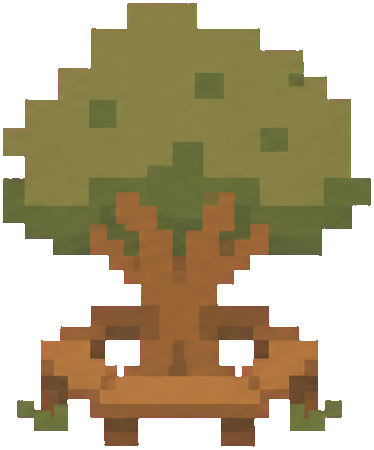
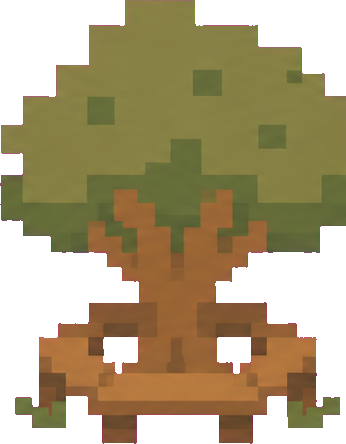
Village: restore personal-dashboard time chip; drop Money district; real art for Calendar/Kitchen; People becomes House info
- AmbientInfo renders on the personal dashboard again (time-only chip)
- Remove the Money district and Somi's cottage prop
- Calendar district uses notice-board.png (cropped from civic-landmarks)
- References district becomes Kitchen, uses kitchen.png (pantry stall)
- People district (the tree) becomes House info: wifi, house notes, and
  the kitchen/home cheat sheets; unlocked in shared mode for guests

diff --git a/components/village/scene/VillageScene.tsx b/components/village/scene/VillageScene.tsx
@@ -196,9 +196,8 @@ export default function VillageScene({
    *  `who` is 'sylvia' | 'harry'. Wired in Village.tsx to the ping route. */
   hostPing?: { onPing: (who: 'sylvia' | 'harry', reason: string) => void } | null
   /** Live lines for the data-domain structures' glance-cards (2026-09-06)
-   *  — money / notes / calendar. Sourced in Village.tsx (hookless scene). */
+   *  — notes / calendar. Sourced in Village.tsx (hookless scene). */
   structures?: {
-    money: string[]
     notes: string[]
     calendar: string[]
   } | null
@@ -247,9 +246,10 @@ export default function VillageScene({
   // reflection archive, and contacts are all personal). Non-landmark navs
   // (Mailbox, the Trips signpost, the date-idea memory markers) pass their
   // own lock intent explicitly.
-  // money + notes are personal → stay locked in shared mode; calendar is
-  // household → open like Places/Home/References.
-  const districtLocked = (id: LandmarkId) => locked && id !== 'places' && id !== 'home' && id !== 'references' && id !== 'calendar'
+  // notes is personal → stays locked in shared mode; calendar is household
+  // and People is now the guest-facing house-info card → open like
+  // Places/Home/References.
+  const districtLocked = (id: LandmarkId) => locked && id !== 'places' && id !== 'home' && id !== 'references' && id !== 'calendar' && id !== 'people'
 
   // One wrapper so every district gets the same treatment — a locked click
   // never silently no-ops, it always explains itself via the unlock prompt.
@@ -638,13 +638,22 @@ export default function VillageScene({
       ],
       actionLabel: 'Open Places', go: () => goToSection('places'),
     },
+    // People district → house info for guests + quick access (2026-09-06).
+    // The big community tree is now the "everything a guest needs" hub:
+    // wifi, house notes, and a jump to the kitchen and home cheat sheets.
+    // Not personal data any more, so it's unlocked in shared mode.
     people: {
-      title: 'People',
-      lines: [
-        `${peopleCount} close`,
-        ...(soonestBirthdayDays != null ? [soonestBirthdayDays === 0 ? 'Birthday today' : `Birthday in ${soonestBirthdayDays}d`] : []),
-      ],
-      actionLabel: 'Open People', go: () => goToPersonal('people'),
+      title: 'House info',
+      lines: (() => {
+        const l = [
+          guestInfo.wifiName ? `Wifi · ${guestInfo.wifiName}` : null,
+          guestInfo.wifiPassword ? `Password · ${guestInfo.wifiPassword}` : null,
+          guestInfo.notes?.trim() || null,
+        ].filter(Boolean).slice(0, 3) as string[]
+        return l.length ? l : ['Wifi and house notes']
+      })(),
+      actionLabel: 'Open Kitchen', go: () => onOpenKitchen?.(),
+      secondary: { label: 'Home Cheat Sheet', go: () => window.open(HOME_URL, '_blank', 'noopener') },
     },
     archive: {
       title: 'Archive',
@@ -661,19 +670,14 @@ export default function VillageScene({
     // same as the well/postcard cards' secondary actions, rather than
     // reworking this card renderer for one district.
     references: {
-      title: 'References',
-      lines: ['Kitchen & home know-how'],
+      title: 'Kitchen',
+      lines: ['Recipes, timings, and home know-how'],
       actionLabel: 'Open Kitchen', go: () => onOpenKitchen?.(),
       secondary: { label: 'Home Cheat Sheet', go: () => window.open(HOME_URL, '_blank', 'noopener') },
     },
-    // Data-domain structures (2026-09-06) — money / notes / calendar.
-    // Lines come from `structures` (Village.tsx); fall back to a plain
-    // label while it's still loading or empty.
-    money: {
-      title: 'Money',
-      lines: structures?.money.length ? structures.money : ['Spending and renewals'],
-      actionLabel: 'Open Money', go: () => goToPersonal('money'),
-    },
+    // Data-domain structures (2026-09-06) — notes / calendar. Lines come
+    // from `structures` (Village.tsx); fall back to a plain label while
+    // it's still loading or empty.
     notes: {
       title: 'Notes',
       lines: structures?.notes.length ? structures.notes : ['Everything you jotted down'],
@@ -2288,10 +2292,8 @@ export default function VillageScene({
       <DistrictLabel quiet={hosting} {...pos('archive')} icon="book" label="Archive" onClick={openOrToggle('archive', 'Archive')} {...hoverPreview('archive')} dark={dark} scale={1.12}
         count={v.treeRings > 0 ? `${spellCount(v.treeRings)} year${v.treeRings === 1 ? '' : 's'} kept` : 'its first year'}
         draggable={arranging} dragging={draggingId === 'archive'} onPointerDown={startDrag('archive')} selected={openPanel === 'archive'} />
-      <DistrictLabel quiet={hosting} {...pos('references')} icon="shelf" label="References" onClick={openOrToggle('references', 'References')} {...hoverPreview('references')} dark={dark} scale={1.12}
+      <DistrictLabel quiet={hosting} {...pos('references')} icon="shelf" label="Kitchen" onClick={openOrToggle('references', 'Kitchen')} {...hoverPreview('references')} dark={dark} scale={1.12}
         draggable={arranging} dragging={draggingId === 'references'} onPointerDown={startDrag('references')} selected={openPanel === 'references'} />
-      <DistrictLabel quiet={hosting} {...pos('money')} icon="coin" label="Money" onClick={openOrToggle('money', 'Money')} {...hoverPreview('money')} dark={dark} scale={1.08}
-        draggable={arranging} dragging={draggingId === 'money'} onPointerDown={startDrag('money')} selected={openPanel === 'money'} />
       <DistrictLabel quiet={hosting} {...pos('notes')} icon="desk" label="Notes" onClick={openOrToggle('notes', 'Notes')} {...hoverPreview('notes')} dark={dark} scale={1.08}
         draggable={arranging} dragging={draggingId === 'notes'} onPointerDown={startDrag('notes')} selected={openPanel === 'notes'} />
       <DistrictLabel quiet={hosting} {...pos('calendar')} icon="board" label="Calendar" onClick={openOrToggle('calendar', 'Calendar')} {...hoverPreview('calendar')} dark={dark} scale={1.08}
@@ -2304,8 +2306,11 @@ export default function VillageScene({
       <DistrictLabel quiet={hosting} {...pos('places')} icon="places" label="Places" onClick={openOrToggle('places', 'Places')} {...hoverPreview('places')} dark={dark} scale={1.12}
         count={placesCount === 0 ? 'no pins yet' : 'the map is growing'}
         draggable={arranging} dragging={draggingId === 'places'} onPointerDown={startDrag('places')} selected={openPanel === 'places'} />
-      <DistrictLabel quiet={hosting} {...pos('people')} icon="people" label="People" onClick={openOrToggle('people', 'People')} {...hoverPreview('people')} dark={dark} scale={1.12}
-        count={soonestBirthdayDays != null ? (soonestBirthdayDays === 0 ? 'birthday today' : `birthday in ${spellCount(soonestBirthdayDays)} day${soonestBirthdayDays === 1 ? '' : 's'}`) : peopleCount === 0 ? 'no one yet' : 'your people'}
+      {/* People district → house info for guests (2026-09-06). The tree
+          stays; the card behind it is wifi + house notes + the cheat
+          sheets now, not contacts. */}
+      <DistrictLabel {...pos('people')} icon="people" label="House info" onClick={openOrToggle('people', 'House info')} {...hoverPreview('people')} dark={dark} scale={1.12}
+        count={peopleCount >= 0 ? 'wifi and house notes' : ''}
         draggable={arranging} dragging={draggingId === 'people'} onPointerDown={startDrag('people')} selected={openPanel === 'people'} />
       {/* Birthday bunting (2026-08-24) — only on the actual day, over the
           People district's current position. */}
@@ -2647,23 +2652,6 @@ export default function VillageScene({
           combined (~33 with a small margin). y dropped to GROUND_Y+20, well
           below PROPS.fences' first run (x 336-364, y GROUND_Y+1..+6) at the
           same x — Somi reads as standing in front of it, not through it. */}
-      {/* Somi's cottage (2026-09-06) — a little cat house; tap it for the
-          same card as tapping Somi herself, for guests who can't catch
-          the moving cat. Minimal marker art until a real sprite exists. */}
-      {(() => { const p = decorPos('somiCottage'); return (
-        <Draggable x={p.x} y={p.y} id="somiCottage" arranging={arranging} draggingId={draggingId} onPointerDown={startDrag('somiCottage')} r={11}>
-          <g onClick={() => { if (!arranging) setOpenSomiCard(true) }}
-            className={!arranging ? 'village-entity' : undefined}
-            style={{ cursor: !arranging ? 'pointer' : undefined }}>
-            <title>Somi&rsquo;s cottage</title>
-            <ellipse cx={0} cy={2} rx={9} ry={2} fill="var(--text)" opacity={0.15} />
-            <rect x={-7} y={-8} width={14} height={10} rx={1.4} fill="#b98a5e" stroke="#7a5230" strokeWidth={0.8} />
-            <path d="M -8 -8 L 0 -15 L 8 -8 Z" fill="#7a5230" />
-            <circle cx={0} cy={-3} r={3} fill="#3a2f26" />
-          </g>
-        </Draggable>
-      ) })()}
-
       {(() => {
         const p = decorPos('somi')
         // We're out — Somi stays behind, sitting by the front door.

diff --git a/components/village/scene/shapes.tsx b/components/village/scene/shapes.tsx
@@ -1099,7 +1099,7 @@ export function EntityCallout({ x, y, title, subtitle }: { x: number; y: number;
   )
 }
 
-export type DistrictIconKind = 'leaf' | 'home' | 'building' | 'book' | 'places' | 'people' | 'shelf' | 'coin' | 'desk' | 'board'
+export type DistrictIconKind = 'leaf' | 'home' | 'building' | 'book' | 'places' | 'people' | 'shelf' | 'desk' | 'board'
 
 // Small illustrated objects, not figures (2026-08-24, replaces the
 // illustrated-figure pass from earlier the same day) — the same "real prop,
@@ -1240,10 +1240,9 @@ const DISTRICT_ART_BOX: Record<DistrictIconKind, { w: number; h: number }> = {
   book: { w: 46, h: 41 },   // greenhouse.png
   places: { w: 32, h: 24 }, // car.png
   people: { w: 44, h: 53 }, // people-tree.png
-  shelf: { w: 24, h: 22 },  // hand-drawn recipe-box + book, no source art
-  coin: { w: 20, h: 20 },   // minimal marker — money structure, real art tbd
+  shelf: { w: 40, h: 32 },  // kitchen.png — the market/pantry stall
   desk: { w: 24, h: 18 },   // minimal marker — notes structure, real art tbd
-  board: { w: 22, h: 24 },  // minimal marker — calendar structure, real art tbd
+  board: { w: 30, h: 27 },  // notice-board.png
 }
 
 function DistrictArt({ kind, dark }: { kind: DistrictIconKind; dark: boolean }) {
@@ -1356,18 +1355,6 @@ function DistrictArt({ kind, dark }: { kind: DistrictIconKind; dark: boolean }) 
             style={{ imageRendering: 'pixelated' }} />
         </g>
       )
-    case 'coin': // Money — a small counting house / coin. Minimal marker
-      // (2026-09-06) until a real building sprite exists.
-      return (
-        <g>
-          <ellipse cx={0} cy={2} rx={10} ry={2} fill="var(--text)" opacity={0.16} />
-          <rect x={-9} y={-12} width={18} height={14} rx={1.6} fill="#c9b273" stroke="#8a7433" strokeWidth={0.9} />
-          <path d="M -9 -12 L 0 -19 L 9 -12 Z" fill="#8a7433" />
-          <circle cy={-4} r={3.6} fill="#f2e0a0" stroke="#8a7433" strokeWidth={0.7} />
-          <text x={0} y={-2.6} textAnchor="middle" fontSize={4.5} fill="#8a7433" fontFamily="var(--font-body)">$</text>
-          {dark && <circle cy={-6} r={9} fill="var(--amber)" opacity={0.24} filter="url(#vglow)" />}
-        </g>
-      )
     case 'desk': // Notes — a writing desk. Minimal marker (2026-09-06).
       return (
         <g>
@@ -1380,29 +1367,25 @@ function DistrictArt({ kind, dark }: { kind: DistrictIconKind; dark: boolean }) 
           {dark && <circle cy={-6} r={9} fill="var(--amber)" opacity={0.24} filter="url(#vglow)" />}
         </g>
       )
-    case 'board': // Calendar — a village noticeboard. Minimal marker (2026-09-06).
+    case 'board': // Calendar — the village notice board (2026-09-06), notice-board.png
+      // cropped from village-civic-landmarks-alpha.png. Replaced the hand-drawn marker.
       return (
         <g>
-          <ellipse cx={0} cy={2} rx={9} ry={2} fill="var(--text)" opacity={0.16} />
-          <rect x={-1.6} y={-6} width={3.2} height={8} rx={1} fill="#7a5230" />
-          <rect x={-11} y={-22} width={22} height={17} rx={2} fill="#8a6f52" stroke="#5c4a34" strokeWidth={1} />
-          <rect x={-9} y={-20} width={18} height={13} rx={1} fill="#f3ead5" />
-          {[-6, 0, 6].map((cx, i) => (
-            <rect key={i} x={cx - 2} y={-17 + (i % 2) * 4} width={4} height={3} rx={0.4} fill="#c9803f" opacity={0.7} />
-          ))}
-          {dark && <circle cy={-13} r={10} fill="var(--amber)" opacity={0.22} filter="url(#vglow)" />}
+          <ellipse cx={0} cy={2} rx={13} ry={2.4} fill="var(--text)" opacity={0.17} />
+          <image href="/village-assets/notice-board.png" x={-15} y={-27} width={30} height={27}
+            style={{ imageRendering: 'pixelated' }} />
+          {dark && <circle cy={-15} r={10} fill="var(--amber)" opacity={0.22} filter="url(#vglow)" />}
         </g>
       )
-    case 'shelf': // References (round 80, 2026-09-04) — a small recipe box + book,
-      // hand-drawn like the nook prop it replaces rather than a cropped asset (no
-      // dedicated "reference library" building exists in the master folder yet).
+    case 'shelf': // References → Kitchen (2026-09-06) — kitchen.png, the pantry/market
+      // stall cropped from village-community-pantry-kitchen-garden-alpha.png. Replaced
+      // the hand-drawn recipe-box marker; the card still opens the Kitchen overlay.
       return (
         <g>
-          <ellipse cx={0} cy={2} rx={11} ry={2.2} fill="var(--text)" opacity={0.16} />
-          <rect x={-9} y={-11} width={18} height={13.5} rx={2} fill="#c9803f" stroke="#8a5a2c" strokeWidth={0.9} />
-          <rect x={-9} y={-11} width={18} height={3.6} fill="#e0a066" />
-          <rect x={-5.5} y={-20} width={11} height={10} rx={0.9} fill="#7a8f6e" stroke="#5c6e52" strokeWidth={0.7} />
-          {dark && <circle cy={-8} r={9} fill="var(--amber)" opacity={0.24} filter="url(#vglow)" />}
+          <ellipse cx={0} cy={2} rx={17} ry={2.6} fill="var(--text)" opacity={0.17} />
+          <image href="/village-assets/kitchen.png" x={-20} y={-32} width={40} height={32}
+            style={{ imageRendering: 'pixelated' }} />
+          {dark && <circle cy={-16} r={11} fill="var(--amber)" opacity={0.24} filter="url(#vglow)" />}
         </g>
       )
   }

diff --git a/components/village/Village.tsx b/components/village/Village.tsx
@@ -18,7 +18,6 @@ import { usePlaces } from '@/lib/hooks/usePlaces'
 import { usePeople, daysUntilBirthday } from '@/lib/hooks/usePeople'
 import { useDateIdeas } from '@/lib/hooks/useDateIdeas'
 import { useTrips } from '@/lib/hooks/useTrips'
-import { useSubscriptions, urgency } from '@/lib/hooks/useSubscriptions'
 import { useNotes } from '@/lib/hooks/useNotes'
 import { useEvents } from '@/lib/hooks/useEvents'
 import { buildVillage, villageChangesSince } from '@/lib/village/state'
@@ -458,21 +457,14 @@ export default function Village({ userId, accountCreatedAt = null, lastSeen = nu
     }
   }, [household.meals, household.chores, routinesHook.routines, binLine, activeScene?.name])
 
-  // Data-domain structures (2026-09-06) — the money / notes / calendar
-  // buildings' glance-cards. Village is already a heavy component; these
-  // three hooks are small (one select each) and only their derived text
-  // reaches the hookless scene.
-  const { subs, total: subsTotal } = useSubscriptions()
+  // Data-domain structures (2026-09-06) — the notes / calendar buildings'
+  // glance-cards. Village is already a heavy component; these hooks are
+  // small (one select each) and only their derived text reaches the
+  // hookless scene.
   const { notes: personalNotes } = useNotes(null)
   const { items: calendarEvents } = useEvents()
   const structures = useMemo(() => {
     const today = format(new Date(), 'yyyy-MM-dd')
-    const money: string[] = []
-    if (subs.length) money.push(`$${Math.round(subsTotal)}/mo · ${subs.length} renewal${subs.length === 1 ? '' : 's'}`)
-    const nextRenewal = subs
-      .filter(s => s.renewal_date && s.renewal_date >= today && urgency(s) !== 'paid')
-      .sort((a, b) => (a.renewal_date ?? '').localeCompare(b.renewal_date ?? ''))[0]
-    if (nextRenewal?.renewal_date) money.push(`${nextRenewal.name} · ${format(parseISO(nextRenewal.renewal_date), 'MMM d')}`)
 
     const weekAgo = format(new Date(Date.now() - 7 * 86400_000), 'yyyy-MM-dd')
     const thisWeek = personalNotes.filter(n => (n.created_at ?? '').slice(0, 10) >= weekAgo).length
@@ -489,8 +481,8 @@ export default function Village({ userId, accountCreatedAt = null, lastSeen = nu
       return `${when} · ${e.title}`
     })
 
-    return { money, notes, calendar }
-  }, [subs, subsTotal, personalNotes, calendarEvents])
+    return { notes, calendar }
+  }, [personalNotes, calendarEvents])
 
   // Deterministic placement: same entity, same spot, every load. A place you
   // recognise, not a chart that reshuffles. See lib/village/layout.
@@ -618,12 +610,10 @@ export default function Village({ userId, accountCreatedAt = null, lastSeen = nu
             homeOccupied={homeOccupied} dateKey={dateKey} />
         </div>
 
-        {/* The corner readout — the WALL only (2026-09-06). On the personal
-            dashboard the scene is a small card and VillageText below it
-            already carries the "what's on" line, so a glass box over the
-            picture is just clutter there. On the wall it's a small tag
-            normally, and grows + dims the scene once idle (`ambient`). */}
-        {locked && !compact && !guestLive && (
+        {/* The corner readout (2026-09-06). A discreet time-only chip on
+            the personal dashboard; on the wall it's the same small tag
+            normally and grows + dims the scene once idle (`ambient`). */}
+        {!compact && !guestLive && (
           <AmbientInfo spaceId={spaces[0]?.id ?? null} userId={userId}
             timeLabel={timeLabel} dateLabel={dateLabel} weather={weather}
             partOfDay={partOfDay} binLine={binLine} ambient={ambient} />

diff --git a/components/village/scene/sceneData.ts b/components/village/scene/sceneData.ts
@@ -473,10 +473,9 @@ export const DEFAULT_LANDMARK_POS: Record<LandmarkId, { x: number; y: number }> 
   // in the shared area could land on the wrong one. This spot clears
   // Archive by x, Places by y, and People by x, with real margin.
   references: { x: 540, y: 300 },
-  // Data-domain structures (2026-09-06) — money (a counting house),
-  // notes (a writing desk), calendar (a noticeboard). Positions picked in
-  // the gaps between existing districts; hitbox non-overlap verified.
-  money: { x: 620, y: 176 },
+  // Data-domain structures (2026-09-06) — notes (a writing desk),
+  // calendar (a noticeboard). Positions picked in the gaps between
+  // existing districts; hitbox non-overlap verified.
   notes: { x: 200, y: 270 },
   calendar: { x: 280, y: 200 },
 }
@@ -556,10 +555,6 @@ export const DECOR_DEFAULTS: Record<string, { x: number; y: number }> = {
   sylvia: { x: 372, y: GROUND_Y + 8 },
   harry: { x: 428, y: GROUND_Y + 8 },
   somi: { x: 330, y: 237 },
-  // Somi's cottage (2026-09-06) — a little cat house near where she
-  // wanders; tapping it opens the same card as tapping her, for guests
-  // who can't catch the moving cat.
-  somiCottage: { x: 360, y: 285 },
   // Guest-layer props (2026-09-04) — promoted from fixed offsets-off-Home
   // to real arrangeable decor ("everything should be able to be arranged
   // except the scene itself"). Defaults match where the old inline-offset

diff --git a/lib/village/layout.ts b/lib/village/layout.ts
@@ -21,7 +21,7 @@ import { hashPos } from './state'
 // of data, so a saved position is actually meaningful and stable. See
 // VillageLayout below and VillageScene's arrange mode.
 
-export const LANDMARK_IDS = ['forest', 'home', 'projects', 'archive', 'places', 'people', 'references', 'money', 'notes', 'calendar'] as const
+export const LANDMARK_IDS = ['forest', 'home', 'projects', 'archive', 'places', 'people', 'references', 'notes', 'calendar'] as const
 export type LandmarkId = typeof LANDMARK_IDS[number]
 /** Custom x/y per landmark (or, since round 12, per decorative prop — see
  *  VillageScene's own DECOR_DEFAULTS/DecorProp), only for the ones a user
